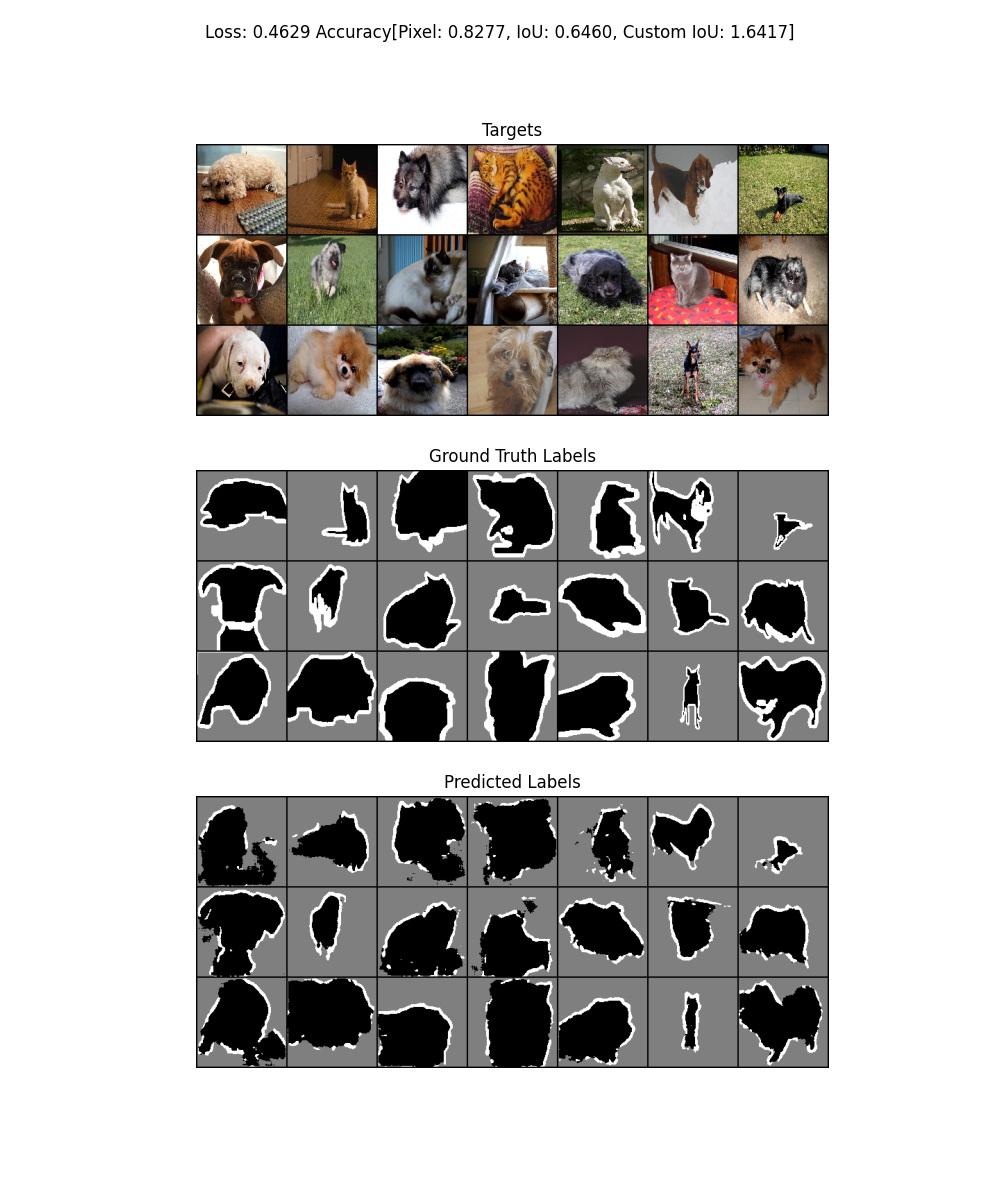
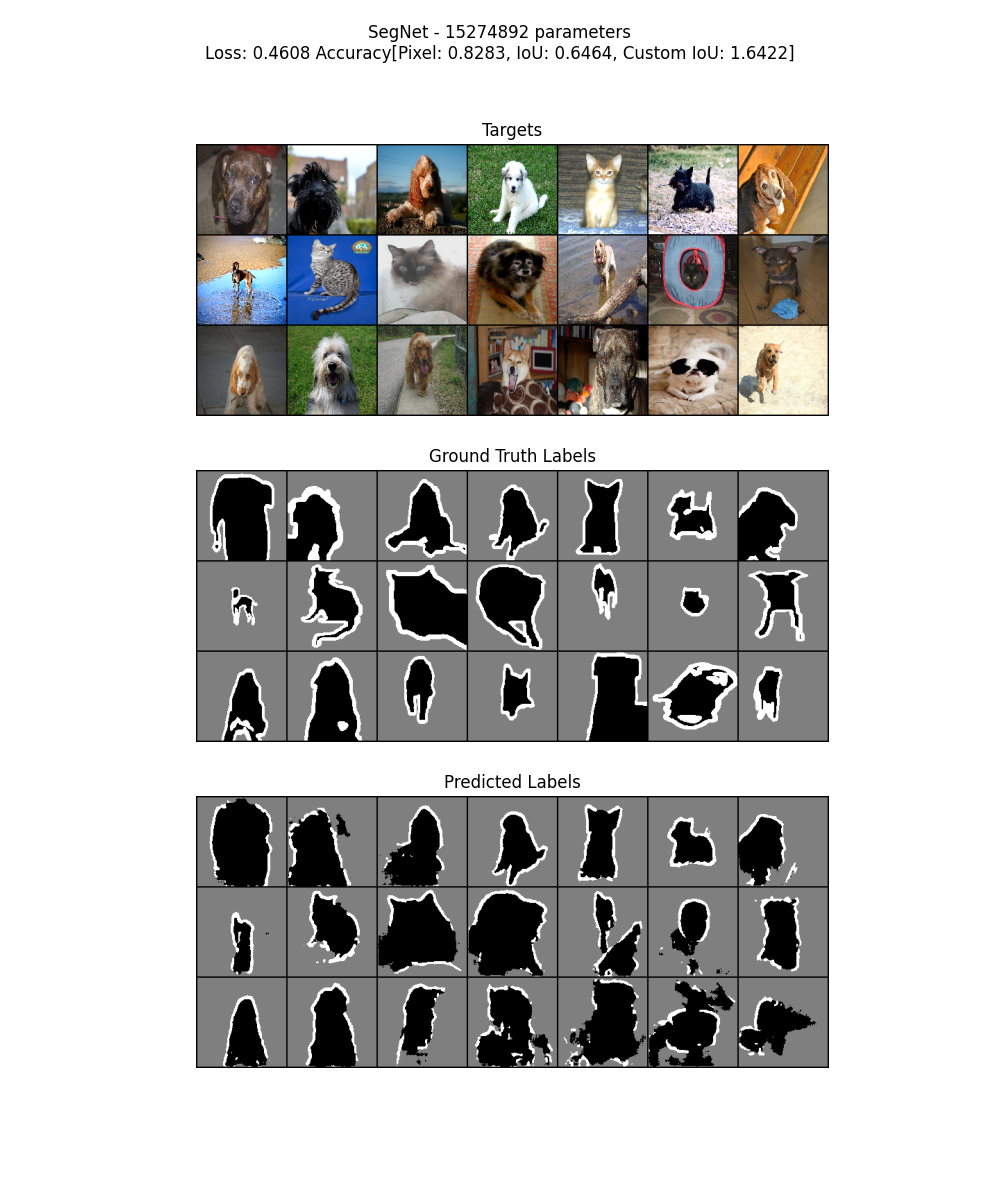
Strategy for different  models

Changed region(s): [[0.186, 0.1233, 0.837, 0.6167], [0.186, 0.6475, 0.837, 0.8942], [0.217, 0.0, 0.806, 0.0617]]

diff --git a/src/inference.py b/src/inference.py
@@ -10,10 +10,15 @@ from tqdm import tqdm
 
 from dataset import OxfordIIITPetsFactory, TrimapClasses
 from utils.loss import IoUMetric
-from segnet.segnet import SegNet 
+from models.segnet import SegNet 
 
-def print_test_dataset_masks(model_pth, batch_size, show_plot, device):
-    model = SegNet(kernel_size=3).to(device)
+def print_test_dataset_masks(model_pth, batch_size, show_plot, device, model_name):
+    if model_name == "SegNet":
+        model = SegNet(kernel_size=3).to(device)
+    else:
+        print(f"Wrong model name: {model_name}")
+        return
+        
     model.load_state_dict(torch.load(model_pth, map_location=torch.device(device)))
     model.eval()
     criterion = nn.CrossEntropyLoss(reduction='mean')
@@ -61,8 +66,8 @@ def print_test_dataset_masks(model_pth, batch_size, show_plot, device):
         pixel_accuracy = test_pixel_accuracy_running / (idx + 1)
         iou_accuracy = test_iou_accuracy_running / (idx + 1)
         custom_iou = test_custom_iou_running / (idx + 1)    
-
-    title = f'Loss: {test_loss:.4f} Accuracy[Pixel: {pixel_accuracy:.4f}, IoU: {iou_accuracy:.4f}, Custom IoU: {custom_iou:.4f}]'
+    parameters_count = sum(p.numel() for p in model.parameters()) 
+    title = f'{model_name} - {parameters_count} parameters\nLoss: {test_loss:.4f} Accuracy[Pixel: {pixel_accuracy:.4f}, IoU: {iou_accuracy:.4f}, Custom IoU: {custom_iou:.4f}]'
 
     while len(plt.get_fignums()) > 0:
         plt.close()
@@ -91,10 +96,11 @@ def print_test_dataset_masks(model_pth, batch_size, show_plot, device):
         while len(plt.get_fignums()) > 0:
             plt.close()
     else:
-        plt.savefig("results/SegNet.png")
+        plt.savefig(f"results/{model_name}.png")
 
 if __name__ == "__main__":
-    MODEL_PATH = "./models/segnet.pth"
+    MODEL_NAME = "SegNet"
+    MODEL_PATH = f"./saved_models/{MODEL_NAME}.pth"
     DATA_PATH = "../data/OxfordPets"
     BATCH_SIZE = 21
     device = (
@@ -103,4 +109,4 @@ if __name__ == "__main__":
         "cpu"
     )
 
-    print_test_dataset_masks(MODEL_PATH, BATCH_SIZE, True, device)
+    print_test_dataset_masks(MODEL_PATH, BATCH_SIZE, True, device, MODEL_NAME)

diff --git a/src/main.py b/src/main.py
@@ -3,7 +3,7 @@ from torch import optim, nn
 from torch.utils.data import DataLoader, random_split
 from tqdm import tqdm
 
-from segnet.segnet import SegNet 
+from models.segnet import SegNet 
 from dataset import OxfordIIITPetsFactory
 
 
@@ -14,7 +14,8 @@ if __name__ == "__main__":
     BATCH_SIZE = 32 
     EPOCHS = 20
     DATA_PATH = "../data/OxfordPets"
-    MODEL_SAVE_PATH = "./models/segnet.pth"
+    MODEL_NAME = "SegNet"
+    MODEL_SAVE_PATH = f"./saved_models/{MODEL_NAME}.pth"
 
     device = (
         "cuda" if torch.cuda.is_available() else
@@ -31,7 +32,11 @@ if __name__ == "__main__":
                                 batch_size=BATCH_SIZE,
                                 shuffle=True)
 
-    model = SegNet(kernel_size=3).to(device)
+    if MODEL_NAME == "SegNet":
+        model = SegNet(kernel_size=3).to(device)
+    else:
+        print(f"Wrong model name: {MODEL_NAME}")
+        exit(0)
 
     optimizer = optim.Adam(model.parameters(), lr=LEARNING_RATE)
     schedular = optim.lr_scheduler.StepLR(optimizer, step_size=SCHEDULAR_SZIE, gamma=SCHEDULAR_SZIE)

diff --git a/src/models/segnet.py b/src/models/segnet.py
@@ -1,5 +1,5 @@
 from torch import nn 
-from segnet.parts import DoubleConv2d, DoubleUnConv2d, TripleConv2d, TripleUnConv2d
+from models.parts import DoubleConv2d, DoubleUnConv2d, TripleConv2d, TripleUnConv2d
 
 class SegNet(nn.Module):
     def __init__(self, kernel_size):

diff --git a/src/models/parts.py b/src/models/parts.py
@@ -1,6 +1,5 @@
 from torch import nn
 
-
 class BlockConv2d(nn.Module):
     def __init__(self, channels_in, channels_out, batch_size, kernel_size=3, stride=1,
                  padding=0, dilation=1, bias=False):
